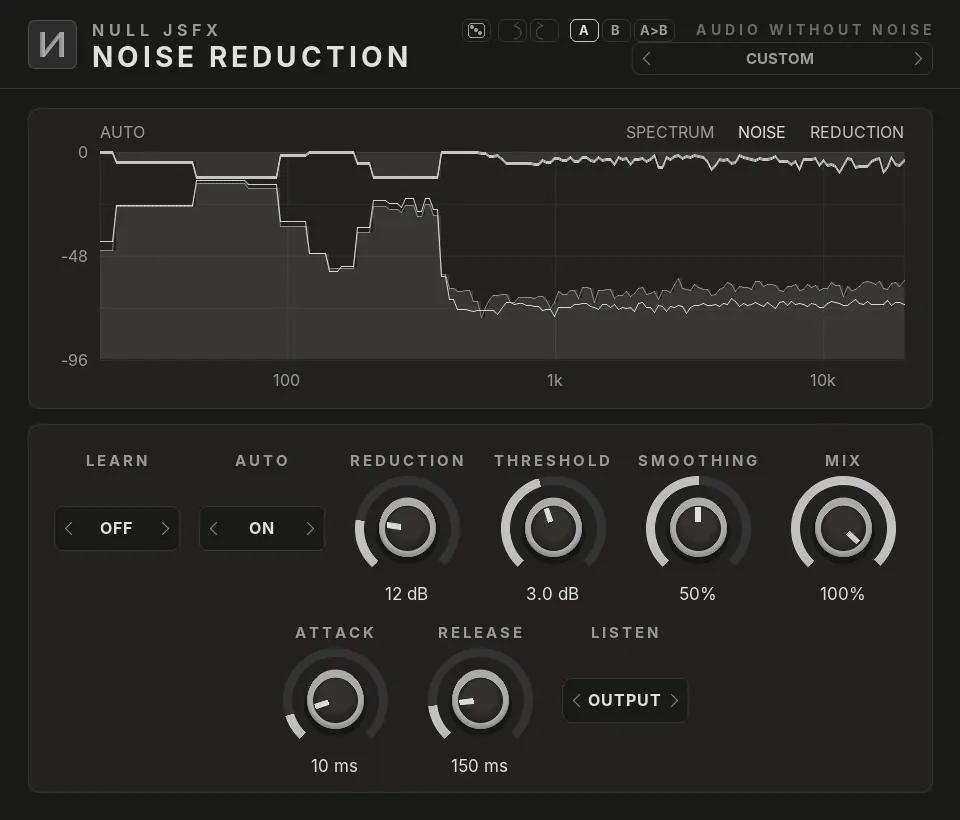
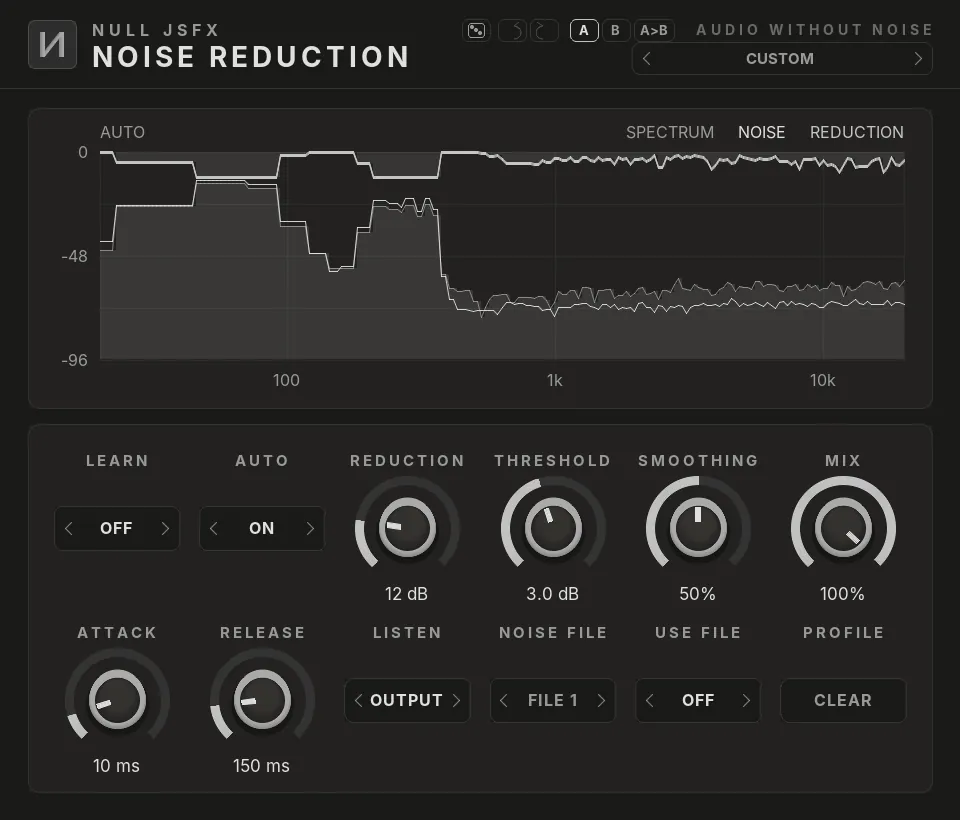
Chain pictures and the GFX screenshot of Noise Reduction rendered again (Noise File row)
Claude-Session: https://claude.ai/code/session_01YL6Abkoyku9zMBsQFqzsjM

diff --git a/NULL_JSFX_BIBLE.md b/NULL_JSFX_BIBLE.md
@@ -2686,6 +2686,7 @@ entry and the Bible delta.
 - **What:** JSFX and GFX: `slider10:/null_jsfx_noise:none:Noise File` and `slider11 Use Noise File` (Off), the file read and averaged in `@block` exactly as Learn averages (II.1), the profile in a versioned `@serialize`, the profile's source and length in the GFX status line, and a NOISE FILE, USE FILE and PROFILE/CLEAR row in the GFX (`ng_slider_set` only, silver accent). Native: `NoiseFile.hpp` (WAV reader, the same analysis in double, the base64 blob), states `noisefile` and `noiseprofile`, parameter `use_noise_file` appended (index 9), the file read in `setState`/`sampleRateChanged` and handed to `run()` through `NullMailbox.hpp`; the UI shows the file name and the profile and has CLEAR (II.2). Rack: no file and no new value; state `noiseprofiles` and `Module::saveData`/`loadData` (II.2). Presets, A/B and the dice never move Use Noise File (R16, `kept_sliders`, `kKeep`). Web: `@serialize` in single precision as REAPER, `chain.getState(uid)` (II.3). With Use Noise File Off the plugin renders bit for bit as 4.1. Site texts, the hint lines, `index.html`, `llms.txt` and release notes `release-notes/4.2.md` (beta). Version 4.2 everywhere (VI.1).
 - **Fixes on the way:** in the first build the JSFX's analysis used a local `h` that EEL2 (case-insensitive names) took for the hop `H`, and a `loop()` over more than 2^20 samples stopped at 2^20 (a 60 s file at 96 kHz): both found by the parity test before any release (II.1).
 - **For orOS:** the web effect is the GFX one, whose slider10/slider11 the Studio page drives like Convolution's IR File (`chain.setFile(uid, 10, v, buf)`, slider 11 = 1); its saved state is `chain.getState(uid)` (an array: 1312, 1, source, sample rate, length, Use Noise File, cut, then 1025 values), the same layout as the JSFX's `@serialize`. Native hosts see `noisefile`/`noiseprofile` (II.2). B27 lists what Studio still lacks.
-- **Files:** `DATA/Effects/null_jsfx/noise_reduction.jsfx`, `gfx/noise_reduction_gfx.jsfx`; `native/plugins/noise_reduction/{NoiseFile.hpp (new),NoiseReductionDSP.hpp,NoiseReductionSliders.hpp,Plugin.cpp,UI.cpp,DistrhoPluginInfo.h,FactoryPresets.hpp}`, `native/common/{NullModule.hpp,NullUI.hpp}`, `native/plugins/rack/{Plugin.cpp,RackEngine.hpp,RackParams.hpp,RackPlugin.hpp,modules/noise_reduction.hpp,test/rack_test.cpp}`, `native/test/{compare.cpp,CMakeLists.txt}`; `tests/{noise_file_test.cpp,make_noise_wavs.py}` (new), `tests/run.sh`; `tools/{build_presets.py,site_content.json}`; `web/runtime/{null-fx.js,null-node.js,null-worklet.js}`, `web/test/runtime.test.js`, `web/README.md`; the version places of VI.1; generated: `web/fx/`, `plugins/*/index.html`, `hub/index.html`, `rack/index.html`, `sitemap.xml`, the presets, the six FX chains with Noise Reduction, `remote/`; `release-notes/4.2.md`; this Bible (R12, R13, R16, II.1–II.3, V.1, VI.1, VII, VIII B18 B26–B28 C28, Part III).
+- **Files:** `DATA/Effects/null_jsfx/noise_reduction.jsfx`, `gfx/noise_reduction_gfx.jsfx`; `native/plugins/noise_reduction/{NoiseFile.hpp (new),NoiseReductionDSP.hpp,NoiseReductionSliders.hpp,Plugin.cpp,UI.cpp,DistrhoPluginInfo.h,FactoryPresets.hpp}`, `native/common/{NullModule.hpp,NullUI.hpp}`, `native/plugins/rack/{Plugin.cpp,RackEngine.hpp,RackParams.hpp,RackPlugin.hpp,modules/noise_reduction.hpp,test/rack_test.cpp}`, `native/test/{compare.cpp,CMakeLists.txt}`; `tests/{noise_file_test.cpp,make_noise_wavs.py}` (new), `tests/run.sh`; `tools/{build_presets.py,site_content.json}`; `web/runtime/{null-fx.js,null-node.js,null-worklet.js}`, `web/test/runtime.test.js`, `web/README.md`; the version places of VI.1; generated: `web/fx/`, `plugins/*/index.html`, `hub/index.html`, `rack/index.html`, `sitemap.xml`, the presets, the six FX chains with Noise Reduction, `remote/`; `release-notes/4.2.md`; `assets/img/gfx/noise_reduction.png` and `assets/img/chains/{audiobook-acx,dialogue-cleanup,podcast-ready}` rendered again; this Bible (R12, R13, R16, II.1–II.3, V.1, VI.1, VII, VIII B18 B26–B28 C28, Part III).
 - **Tests:** run on Linux: `tests/noise_file_test` (all checks at 44.1, 48 and 96 kHz, 23 s); ctest `noisefile_{0,1,2}_noise_reduction` and `noisefile_{0,1,2}_gfx_noise_reduction` (and a wrong file in the CLAP state makes the compare fail, so the test does read the file); `native/scripts/build.sh --test --plugins "noise_reduction;convolution;rack"` (146/146: `compare_`, `presets_`, `gfx_`, `state_`, every `module_`, `rack_test` with the new module-data checks, `rt_test`); `tests/run.sh` (lint, every plugin, chains, presets); the plain and GFX Noise Reduction against the 4.1 files in ysfx, 24 settings with Learn sequences at 44.1 and 96 kHz: bit for bit; `node --test web/test/*.test.js` (a profile from a file equals Learn's, bit for bit, and comes back from the saved state) and `web/test/nulltest.js` on Noise Reduction (2.2e-16); `build_site`, `build_remote`, `build_catalog`, `build_bible`, `build_presets`, `build_chains`, `build_assisted`, `chain_shots` `--check`, `node web/tools/build.js --check`. Not run: a real REAPER or DAW session with a Noise File (C28), the Hub and the full web null test of every effect (only the footer changed in them).
+- **Next:** the 3D render of Noise Reduction (`assets/hardware/noise_reduction*`, made on Christos's PC) still shows the 4.1 panel without the Noise File row; the GFX screenshot `assets/img/gfx/noise_reduction.png` and the three chain pictures with Noise Reduction were rendered again here.
 - **Version:** v4.2 (version step; Christos publishes the release).
